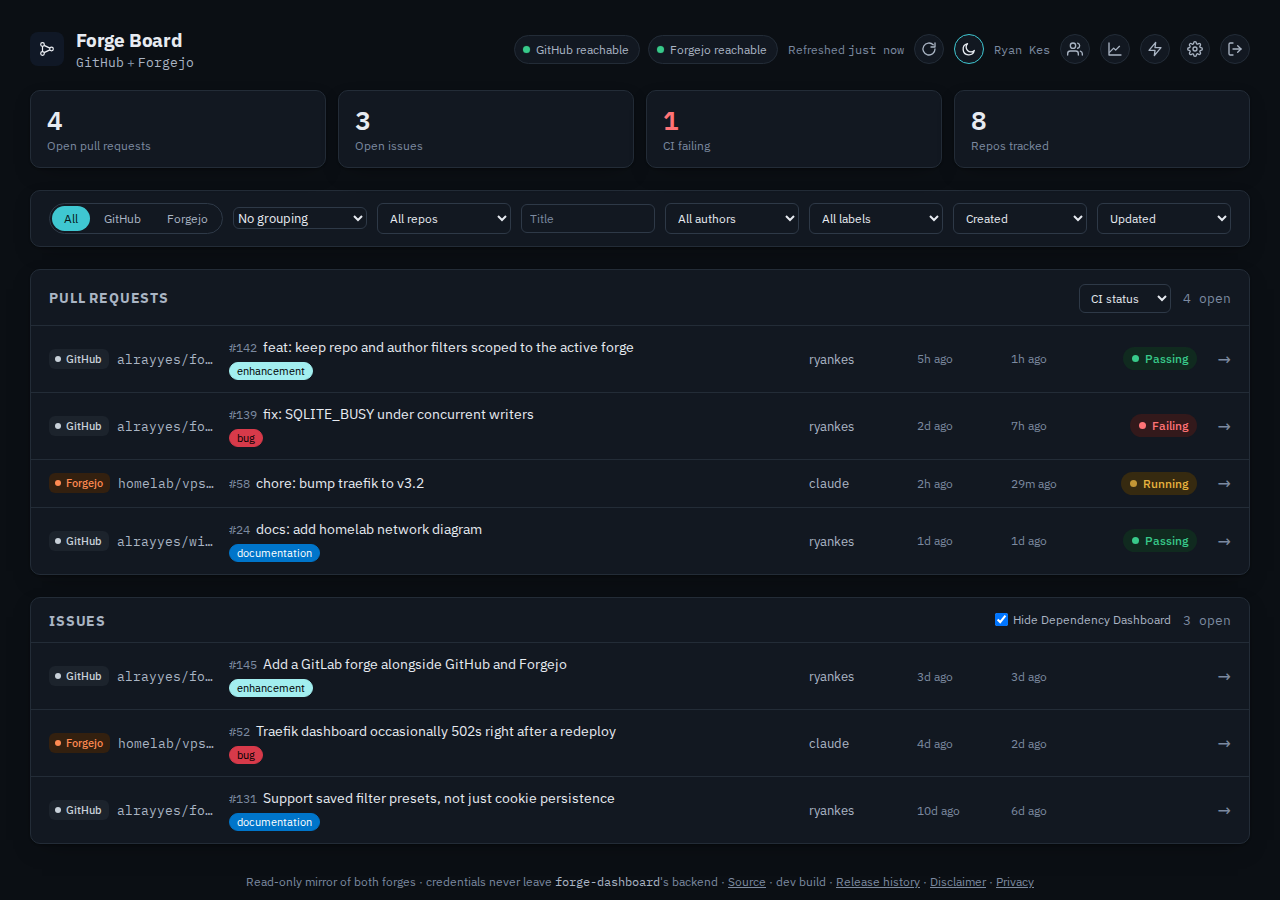
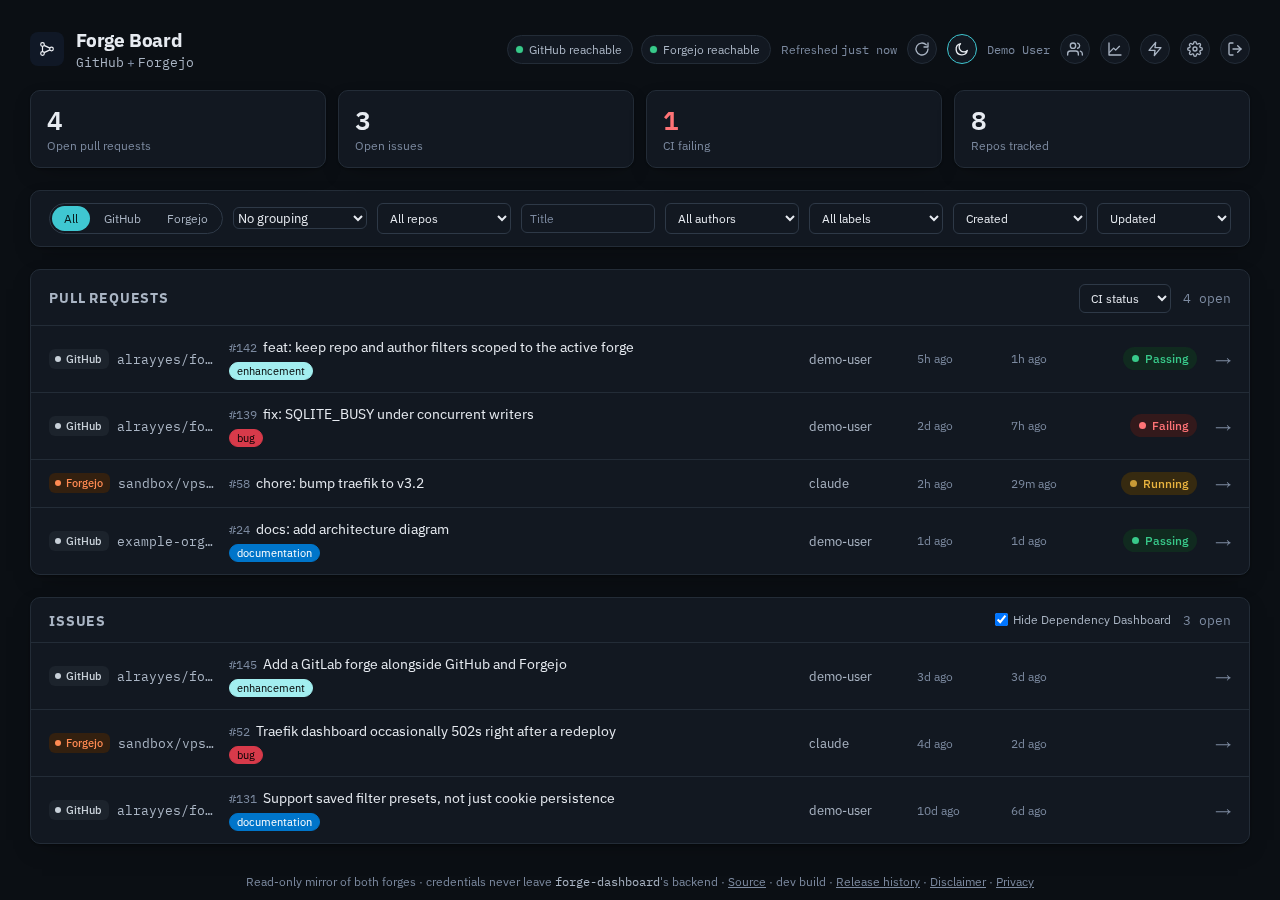
fix: stop the README screenshots from leaking a real name and repos (#252)
capture-screenshots.js registered the screenshot account with Ryan's
actual display name and username, and its fixture data used his real
GitHub/Forgejo identifiers and a real private repo name
(homelab/vps-docker via his actual Forgejo instance domain) — all of
it rendered straight into the committed docs/screenshots PNGs the
README embeds. The script's own header comment already said a
screenshot only needs to look like the real product, not show a real
account's actual data; that just hadn't been applied to the identity
or the example repos.

Regenerated both PNGs against the fix.

Closes #251.

diff --git a/scripts/capture-screenshots.js b/scripts/capture-screenshots.js
@@ -8,7 +8,9 @@
 // the same way tests/dashboard.spec.js's own route mocks work: this runs
 // in CI with no live GitHub/Forgejo credentials, and a screenshot only
 // needs to look like the real product, not show a real account's actual
-// open pull requests.
+// open pull requests — the same reason the registered display name,
+// username, and every repo except this project's own are fictional
+// rather than Ryan's real name or infrastructure (#250).
 
 const path = require('node:path');
 const { chromium } = require('@playwright/test');
@@ -34,7 +36,7 @@ const SNAPSHOT = {
       number: 142,
       title: 'feat: keep repo and author filters scoped to the active forge',
       url: 'https://github.com/alrayyes/forge-dashboard/pull/142',
-      author: 'ryankes',
+      author: 'demo-user',
       ci: 'success',
       labels: [{ name: 'enhancement', color: 'a2eeef' }],
       createdAt: daysAgo(0.2),
@@ -46,7 +48,7 @@ const SNAPSHOT = {
       number: 139,
       title: 'fix: SQLITE_BUSY under concurrent writers',
       url: 'https://github.com/alrayyes/forge-dashboard/pull/139',
-      author: 'ryankes',
+      author: 'demo-user',
       ci: 'failure',
       labels: [{ name: 'bug', color: 'd73a4a' }],
       createdAt: daysAgo(2),
@@ -54,10 +56,10 @@ const SNAPSHOT = {
     },
     {
       forge: 'forgejo',
-      repo: 'homelab/vps-docker',
+      repo: 'sandbox/vps-docker',
       number: 58,
       title: 'chore: bump traefik to v3.2',
-      url: 'https://git.higherlearning.eu/ryankes/vps-docker/pulls/58',
+      url: 'https://git.example.com/sandbox/vps-docker/pulls/58',
       author: 'claude',
       ci: 'pending',
       labels: [],
@@ -66,11 +68,11 @@ const SNAPSHOT = {
     },
     {
       forge: 'github',
-      repo: 'alrayyes/wiki',
+      repo: 'example-org/wiki',
       number: 24,
-      title: 'docs: add homelab network diagram',
-      url: 'https://github.com/alrayyes/wiki/pull/24',
-      author: 'ryankes',
+      title: 'docs: add architecture diagram',
+      url: 'https://github.com/example-org/wiki/pull/24',
+      author: 'demo-user',
       ci: 'success',
       labels: [{ name: 'documentation', color: '0075ca' }],
       createdAt: daysAgo(1),
@@ -84,17 +86,17 @@ const SNAPSHOT = {
       number: 145,
       title: 'Add a GitLab forge alongside GitHub and Forgejo',
       url: 'https://github.com/alrayyes/forge-dashboard/issues/145',
-      author: 'ryankes',
+      author: 'demo-user',
       labels: [{ name: 'enhancement', color: 'a2eeef' }],
       createdAt: daysAgo(3),
       updatedAt: daysAgo(3),
     },
     {
       forge: 'forgejo',
-      repo: 'homelab/vps-docker',
+      repo: 'sandbox/vps-docker',
       number: 52,
       title: 'Traefik dashboard occasionally 502s right after a redeploy',
-      url: 'https://git.higherlearning.eu/ryankes/vps-docker/issues/52',
+      url: 'https://git.example.com/sandbox/vps-docker/issues/52',
       author: 'claude',
       labels: [{ name: 'bug', color: 'd73a4a' }],
       createdAt: daysAgo(4),
@@ -106,7 +108,7 @@ const SNAPSHOT = {
       number: 131,
       title: 'Support saved filter presets, not just cookie persistence',
       url: 'https://github.com/alrayyes/forge-dashboard/issues/131',
-      author: 'ryankes',
+      author: 'demo-user',
       labels: [{ name: 'documentation', color: '0075ca' }],
       createdAt: daysAgo(10),
       updatedAt: daysAgo(6),
@@ -124,8 +126,8 @@ async function main() {
   await addVirtualAuthenticator(page);
   await page.goto(`${BASE_URL}/login.html`);
   await page.click('#show-register');
-  await page.fill('#register-username', 'ryankes');
-  await page.fill('#register-display-name', 'Ryan Kes');
+  await page.fill('#register-username', 'demo-user');
+  await page.fill('#register-display-name', 'Demo User');
   await page.click('#register-submit');
   await page.waitForURL(`${BASE_URL}/`, { timeout: 10000 });
 
